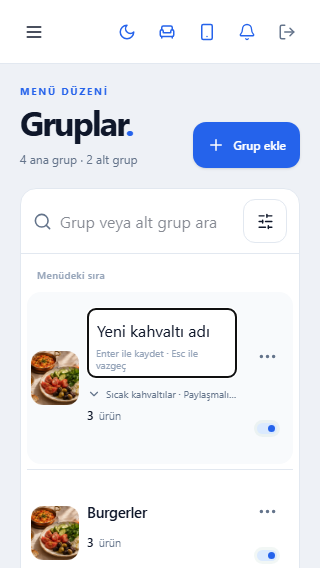
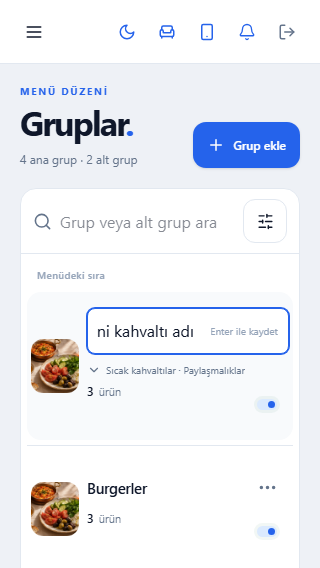
Grup adı ipucunu alanın sağ ucuna taşı

diff --git a/frontend/src/components/admin/groups/groups.css b/frontend/src/components/admin/groups/groups.css
@@ -362,23 +362,34 @@
   color: var(--admin-accent-text);
 }
 .ag-rename {
-  position: relative;
+  display: flex;
+  align-items: center;
+  gap: 8px;
   min-width: 0;
-}
-.ag-rename input {
-  min-width: 0;
-  width: 100%;
-  min-height: 58px;
-  padding: 8px 9px 23px;
   border: 1px solid var(--admin-accent);
   border-radius: 8px;
   background: var(--admin-card);
+}
+.ag-rename:focus-within {
+  box-shadow: 0 0 0 1px var(--admin-accent);
+}
+.ag-rename input {
+  flex: 1;
+  min-width: 0;
+  width: 0;
+  min-height: 40px;
+  padding: 8px 9px;
+  border: 0;
+  outline: none;
+  border-radius: 8px;
+  background: transparent;
   color: var(--admin-text);
   font: inherit;
 }
 .ag-rename__hint {
-  position: absolute;
-  inset: auto 9px 7px;
+  flex-shrink: 0;
+  padding-inline-end: 10px;
+  white-space: nowrap;
   color: var(--admin-text-subtle);
   font-size: 10px;
   line-height: 1.2;
@@ -904,9 +915,17 @@
     margin-bottom: 6px;
   }
   .ag-rename input {
-    min-height: 70px;
-    padding-bottom: 32px;
+    min-height: 44px;
     font-size: 16px;
+  }
+  .ag-rename__escape {
+    display: none;
+  }
+  .ag-row.is-renaming {
+    grid-template-areas: 'photo name name' 'photo products visibility';
+  }
+  .ag-row.is-renaming .ag-more {
+    display: none;
   }
   .ag-dialog {
     width: 100%;

diff --git a/frontend/src/components/admin/groups/GroupListRow.tsx b/frontend/src/components/admin/groups/GroupListRow.tsx
@@ -88,7 +88,7 @@ export default function GroupListRow({
   return (
     <div
       ref={setNodeRef}
-      className={`ag-row${group.isSubGroup ? ' ag-row--sub' : ''}${!group.isActive ? ' is-hidden' : ''}${isDragging ? ' is-dragging' : ''}${isOver && !isDragging ? ' is-over' : ''}${contextOnly ? ' is-context' : ''}`}
+      className={`ag-row${group.isSubGroup ? ' ag-row--sub' : ''}${!group.isActive ? ' is-hidden' : ''}${isDragging ? ' is-dragging' : ''}${isOver && !isDragging ? ' is-over' : ''}${contextOnly ? ' is-context' : ''}${renaming ? ' is-renaming' : ''}`}
       data-group-id={group.id}
       style={{ transform: CSS.Transform.toString(transform), transition }}
       onContextMenu={(event) => {
@@ -170,7 +170,14 @@ export default function GroupListRow({
               }}
             />
             <small id={hintId} className="ag-rename__hint">
-              {busy ? 'Kaydediliyor…' : 'Enter ile kaydet · Esc ile vazgeç'}
+              {busy ? (
+                'Kaydediliyor…'
+              ) : (
+                <>
+                  Enter ile kaydet
+                  <span className="ag-rename__escape"> · Esc ile vazgeç</span>
+                </>
+              )}
             </small>
           </form>
         ) : (

diff --git a/CALISMA-GUNLUGU.md b/CALISMA-GUNLUGU.md
@@ -377,3 +377,8 @@ Bu dosya, projeyi devralan kişinin veya yapay zeka asistanının yapılan işle
 - Kullanıcının isteğiyle yerinde ad düzenlemenin onay/iptal düğmeleri kaldırıldı. Enter kaydeder, Escape iptal eder; input içinde küçük klavye ipucu ve kaydederken metin gösterilir. İpucu aria-describedby ile bağlandı, mobil klavyeye enterKeyHint=done eklendi. Filtre kutularındaki tikler kaldırıldı; seçili tema vurgu rengi ve aria-pressed korunur. Kullanılmayan ikon/stiller temizlendi; genel filtre tercihi AGENTS.md'ye kaydedildi.
 - Kontrol: frontend üretim derlemesi/diff geçti (mevcut Vite paket boyutu uyarısı sürer). Chrome/gerçek admin + taklit API'de 1440/390/320 px Enter ile kaydetme/çevirilerin korunması, Escape ile API isteği göndermeden vazgeçme, alan içi ipucu/taşma, düğmelerin kalkması ve tiksiz seçimin listeye yansıması geçti. Çalışma zamanı hatası yok. Görüntüler/notlar docs/admin-groups altında; groups-minimal.mjs yerel/Git dışında.
 - Sınırlar: canlı API, fiziksel telefon/telefon klavyesi ve Zen/Safari denenmedi. Önceki toast/filtre/modal değişiklikleri de hâlâ çalışma ağacındadır; kullanıcı henüz commit etmemiştir. Yeni bağımlılık/backend değişikliği yok. Frontend deploy yeterli; commit/push/deploy yapılmadı.
+
+## 2026-11-16 — Ad düzenleme ipucu sağ uca taşındı
+
+- Kullanıcı alt satırdaki ipucunun alanı kalınlaştırdığını belirtti. Alt padding/satır kaldırıldı; ipucu aynı alanın sağ ucunda dikey ortalandı. Web yaklaşık 42 px, mobil 46 px yüksekliğinde. İpucu için ayrılan alan yazıyla çakışmaz. Mobilde kısa Enter ipucu gösterilir; ad alanı düzenlerken son sütuna genişler. Enter/Escape ve erişilebilir açıklama korunur.
+- Kontrol: frontend üretim derlemesi/diff geçti (mevcut Vite büyük paket uyarısı sürer). Chrome/gerçek admin + taklit API'de 1440/390/320 px tek satır yüksekliği, ipucunun sağda ve aynı hizada olması, metinle çakışmaması, Enter kaydı ve Escape iptali doğrulandı. Görüntü/not docs/admin-groups içinde güncellendi; groups-inline-hint.mjs Git dışında. Canlı sunucu/fiziksel telefon denenmedi. Frontend deploy yeterli; commit/push/deploy yapılmadı.

diff --git a/docs/admin-groups/README.md b/docs/admin-groups/README.md
@@ -32,6 +32,8 @@ Ad alanının onay/iptal düğmeleri ve kullanılmayan ikon/stilleri kaldırıld
 
 [Mobil ad alanı](rename-mobile.png) · [Tiksiz filtre](filter-minimal.png)
 
+İpucunun konumu düzeltildi: alta ayrılan satır kaldırıldı; ipucu alanın sağ ucunda, metinle aynı hizada. Web alanı yaklaşık 42 px, mobil alan 46 px yüksekliğinde. Telefonda yalnızca kısa "Enter ile kaydet" görünür; Escape davranışı korunur. Düzenleme sırasında mobil ad alanı son sütuna kadar genişler. Chrome + taklit API'de 1440/390/320 px alan yüksekliği, ipucunun sağda/dikey ortada olması, metinle çakışmaması ve Enter/Escape akışları doğrulandı. Güncel betik `groups-inline-hint.mjs` Git dışındadır.
+
 ## Doğrulama
 
 - Frontend üretim derlemesi geçti. Mevcut Vite büyük paket uyarısı sürer. Backend/şema değişmedi; bu tur frontend deploy yeterli.
